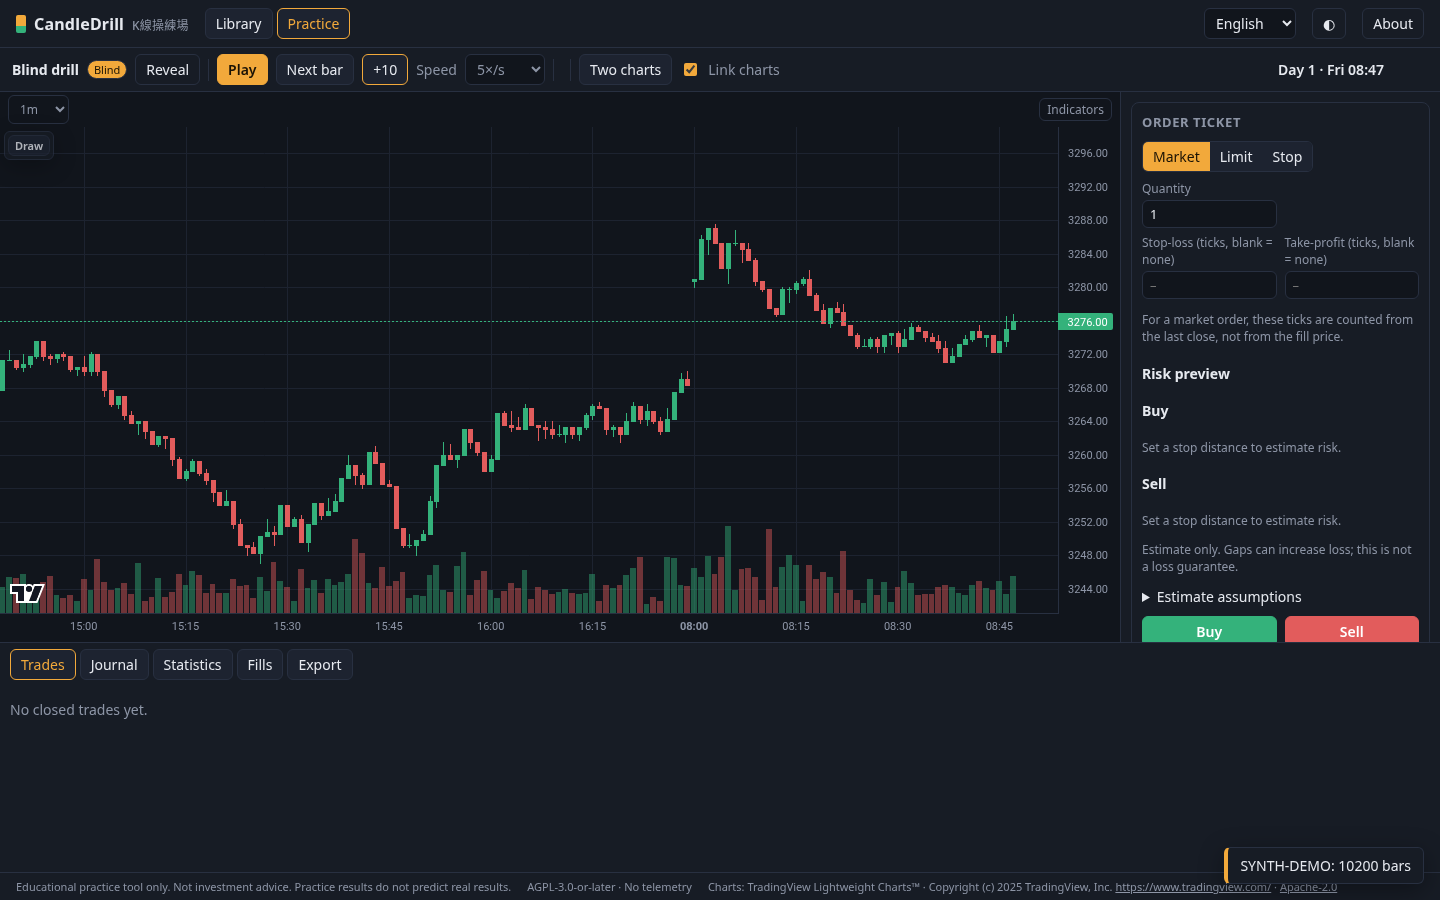
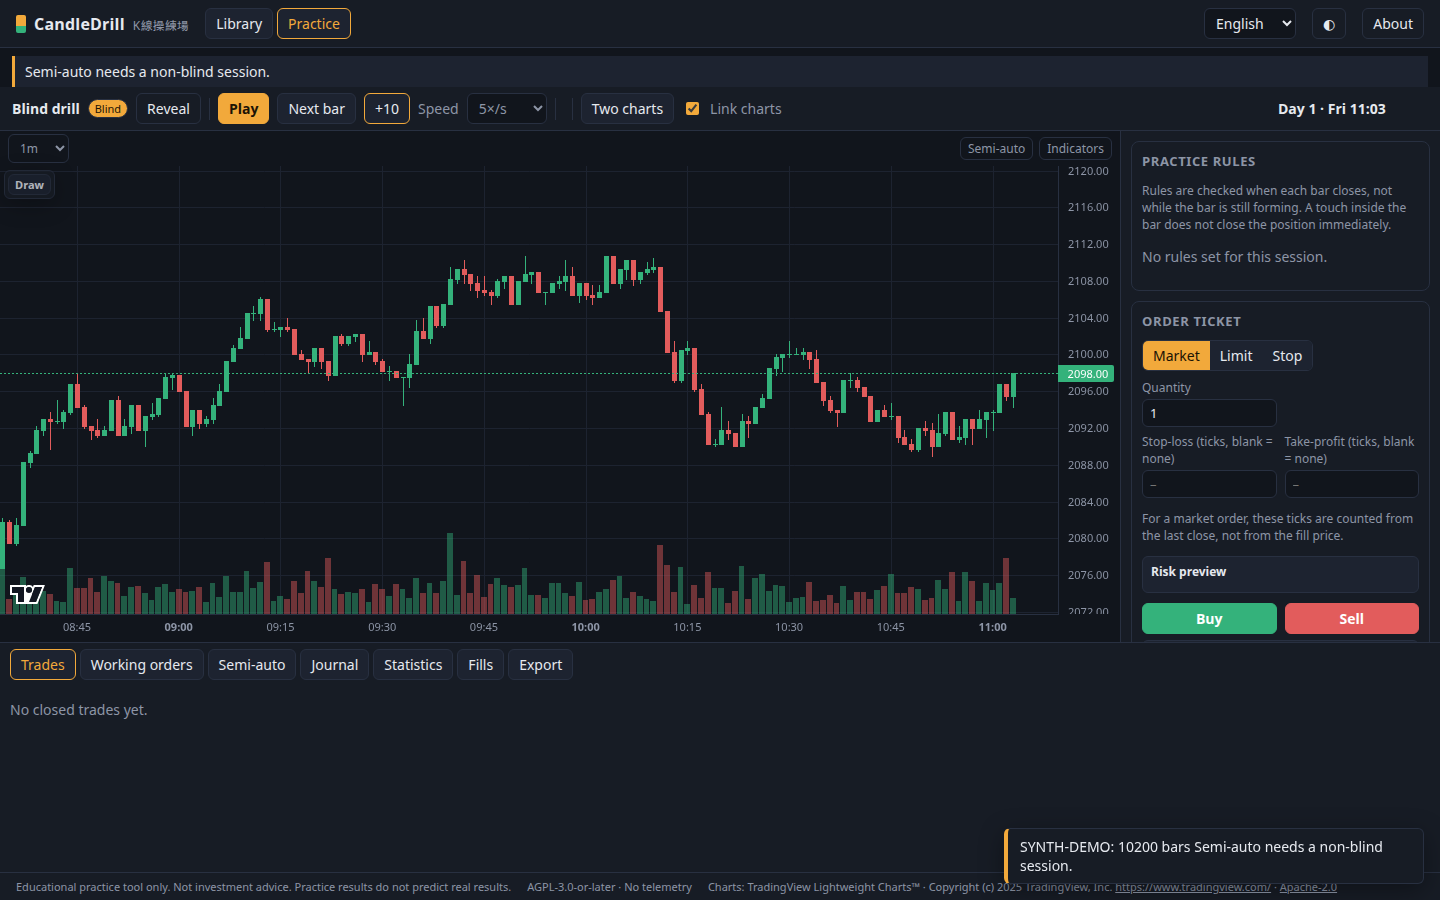
docs: README practice rules + refresh screenshots (#23)
Document the market-open anchor versus the daily-loss day boundary, and the four trailing-drawdown modes. Regenerate the README gallery on the v0.4.0 UI with synthetic demo data.

diff --git a/README.md b/README.md
@@ -52,7 +52,7 @@ Hide the real symbol, shift dates and prices so you cannot recognise the chart. 
 
 ![Blind practice: symbol shown as Blind, Reveal control, disguised chart](docs/shot-blind.png)
 
-<sub>**Blind practice** — random start, disguised symbol/dates/prices; Reveal restores the truth.</sub>
+<sub>**Blind practice** — random start, disguised symbol/dates/prices; Reveal restores the truth. Underlying bars are generated `SYNTH-` demo data.</sub>
 
 ### Drawing tools
 
@@ -60,7 +60,7 @@ Floating **Draw** palette: horizontal / trend / rectangle, text, arrow, freehand
 
 ![Floating Draw palette open with trend line on the chart](docs/shot-drawings.png)
 
-<sub>**Drawing palette** — collapsible tools on the chart (not duplicated in the top bar).</sub>
+<sub>**Drawing palette** — collapsible tools on the chart (not duplicated in the top bar). Synthetic `SYNTH-` demo data.</sub>
 
 ### Two timeframes
 
@@ -68,7 +68,7 @@ Split view with linked crosshair and scroll. Change each pane’s timeframe (1m 
 
 ![Two charts: 1m and 15m linked](docs/shot-multitf.png)
 
-<sub>**Multi-timeframe** — practise the same moment on two charts without look-ahead.</sub>
+<sub>**Multi-timeframe** — practise the same moment on two charts without look-ahead. Synthetic `SYNTH-` demo data.</sub>
 
 ### Indicators
 
@@ -76,7 +76,7 @@ Searchable catalog: SMA / EMA (any periods), Bollinger, session VWAP, opening ra
 
 ![Indicators panel with SMA 9/20/50 and RSI enabled](docs/shot-indicators.png)
 
-<sub>**Indicators** — overlays and lower panes; settings stay on this computer only.</sub>
+<sub>**Indicators** — overlays and lower panes; settings stay on this computer only. Synthetic `SYNTH-` demo data.</sub>
 
 ### Semi-auto (半自動交易)
 
@@ -101,7 +101,25 @@ Simulated only — no broker. The manual ticket stays on the right. DSL and API:
 
 ### Orders & review
 
-Market / limit / stop, brackets (SL/TP), risk preview, flatten. Trades, journal, statistics, CSV / HTML / session export. Optional practice rules (daily loss, trailing drawdown, profit target).
+Market / limit / stop, brackets (SL/TP), risk preview, flatten. Trades, journal, statistics, CSV / HTML / session export. Optional practice rules (daily loss, trailing drawdown, profit target). Leave a rule blank to turn it off.
+
+#### Practice rules
+
+The new-session form has two clocks. They are not the same setting:
+
+- **Market open anchor** (`anchorMinutes`) is the market-open clock for the opening range (ORB), session VWAP, and the semi-auto `orb_break` window. Picking a dataset fills it from the first bar's exchange-local time.
+- **Trading day start** (`dayStartMinutes`) is only the daily-loss day boundary: when the daily loss limit resets.
+
+**Trailing drawdown mode** (`trailingDrawdownMode`) defaults to `close`. It only changes the trailing rule. Daily loss still uses equity at the bar close.
+
+- `close` — the peak follows equity at each bar close. A move inside the bar does not count.
+- `eod` — the peak updates only at the trading-day boundary (end of day).
+- `intraday` — the peak uses the favourable high or low. A breach uses the adverse high or low, and the position closes at that price.
+- `static` — the floor stays at starting balance minus the amount. It does not follow a peak.
+
+Older session files still import: `anchorMinutes` copies `dayStartMinutes`, and the mode is `close`. Added in [0.4.0](CHANGELOG.md). Order fills: [docs/FILL-MODEL.md](docs/FILL-MODEL.md).
+
+開市錨點（`anchorMinutes`）係 ORB、VWAP 同半自動 `orb_break` 嘅開市時鐘，同每日虧損重置嘅交易日開始（`dayStartMinutes`）分開。追蹤回撤模式（`trailingDrawdownMode`）預設 `close`（每根收市權益）；另可選 `eod`（交易日完先更新峰值）、`intraday`（盤中有利／不利高低點，並喺該價平倉）、`static`（起始資金減金額，唔跟峰值）。留空就唔設該條規則。
 
 ## Why CandleDrill
 
